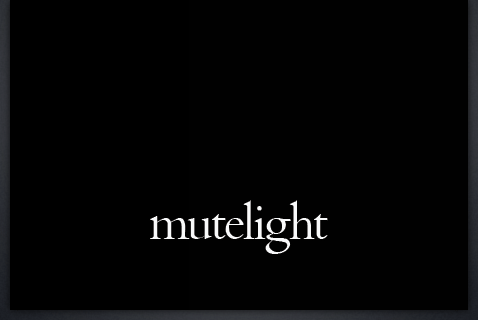
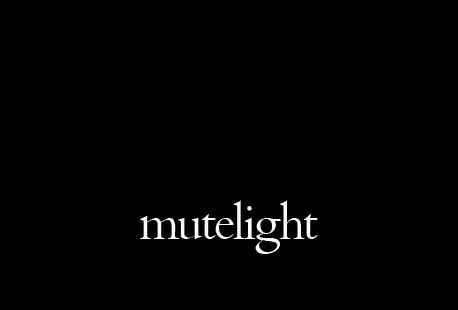
* layout revision: partially hidden header, elastic layout, h1 titles

Changed region(s): [[0.0, 0.0, 1.0, 1.0], [0.3057, 0.6097, 0.7031, 0.8419]]

diff --git a/content/assets/css/screen.sass b/content/assets/css/screen.sass
@@ -45,7 +45,7 @@ blockquote
 body
   color: $primary_color
   font-family: tahoma, sans-serif
-  font-size: 11px
+  font-size: 12px
   background: black url("/assets/images/back.jpg") repeat
   margin: 0
   padding: 0
@@ -68,12 +68,18 @@ strong
 //**************************************************************************//
 
 div#radial
-  background: transparent url("/assets/images/radial.jpg") no-repeat center top
+  background: transparent url("/assets/images/radial.jpg") no-repeat scroll center bottom
   width: 100%
+  height: 294px
+div#shift
+  width: 100%
+  position: absolute
+  top: 0
   div#wrapper
-    width: 478px
+    max-width: 650px
+    min-width: 478px
     margin: 0 auto
-    h2
+    h1,h2
       color: $header_color
       font-family: georgia, serif
       font-size: 20px
@@ -91,7 +97,6 @@ div#radial
     div.content
       font-family: arial, sans-serif
       line-height: 1.5em
-      font-size: 12px
       border-bottom: 2px solid #{$border_color}
       border-top: 2px solid #{$border_color}
       margin: 0 7px
@@ -111,7 +116,7 @@ div#radial
       div.figure
         background: black
         border: 1px solid #{$border_color}
-        font-size: 8pt
+        font-size: 11px
         margin: 0
         padding: 14px 16px
         position: relative
@@ -135,7 +140,7 @@ div#radial
           color: $highlight_color
       p.meta
         color: $secondary_color
-        font-size: 8pt
+        font-size: 11px
         font-style: italic
       p.quote
         color: $highlight_color
@@ -146,13 +151,11 @@ div#radial
     div#about
       font-family: arial, sans-serif
       line-height: 1.5em
-      font-size: 12px
       background: #20232d
       position: relative
       top: 9px
-      height: 250px
       margin: 0 10px
-      padding: 3px 10px 0 10px
+      padding: 3px 10px
       /* all opacity attributes
       opacity: 0.8
       filter: alpha(opacity = 80)
@@ -173,12 +176,15 @@ div#radial
           color: $highlight_color
           background: #50535d
     div#header
-      background: transparent url("/assets/images/header.png") no-repeat
-      width: 478px
-      height: 320px
+      background: #000 url("/assets/images/header.png") no-repeat scroll center bottom
+      height: 80px
+      margin: 0 10px
       border: 0
       padding: 0
       cursor: pointer
+      -moz-box-shadow: 0 0 10px black
+      -webkit-box-shadow: 0 0 10px black
+      box-shadow: 0 0 10px black
     ul.article
       list-style-type: none
       margin: 0 10px 0 10px

diff --git a/content/assets/css/syntax.sass b/content/assets/css/syntax.sass
@@ -11,7 +11,6 @@
     padding: 14px 9px
     position: relative
     overflow-x: auto
-    width: 436px
 
     pre
         margin: 0

diff --git a/lib/pygments_filter.rb b/lib/pygments_filter.rb
@@ -3,7 +3,7 @@ def codify(str, lang)
     html_coded = ""
 
     # Use pygmentize, it's very nice
-    open("|/usr/bin/pygmentize -f html -l #{lang}", "w+") do |f|
+    open("|/usr/bin/pygmentize3 -f html -l #{lang}", "w+") do |f|
         # Write the code to standard input of pygmentize.
         f.puts(str)
 
